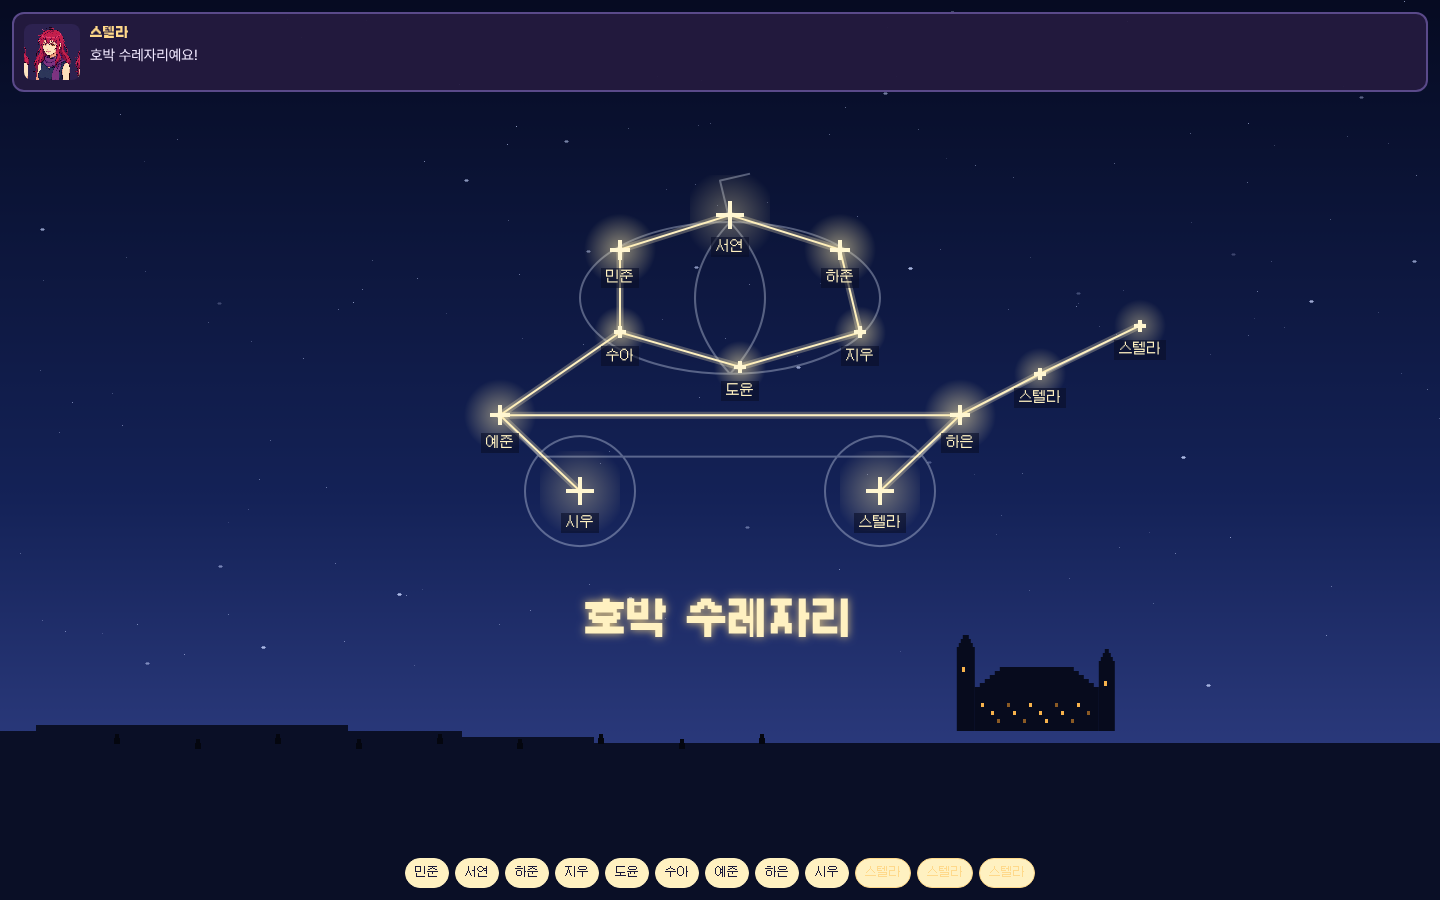
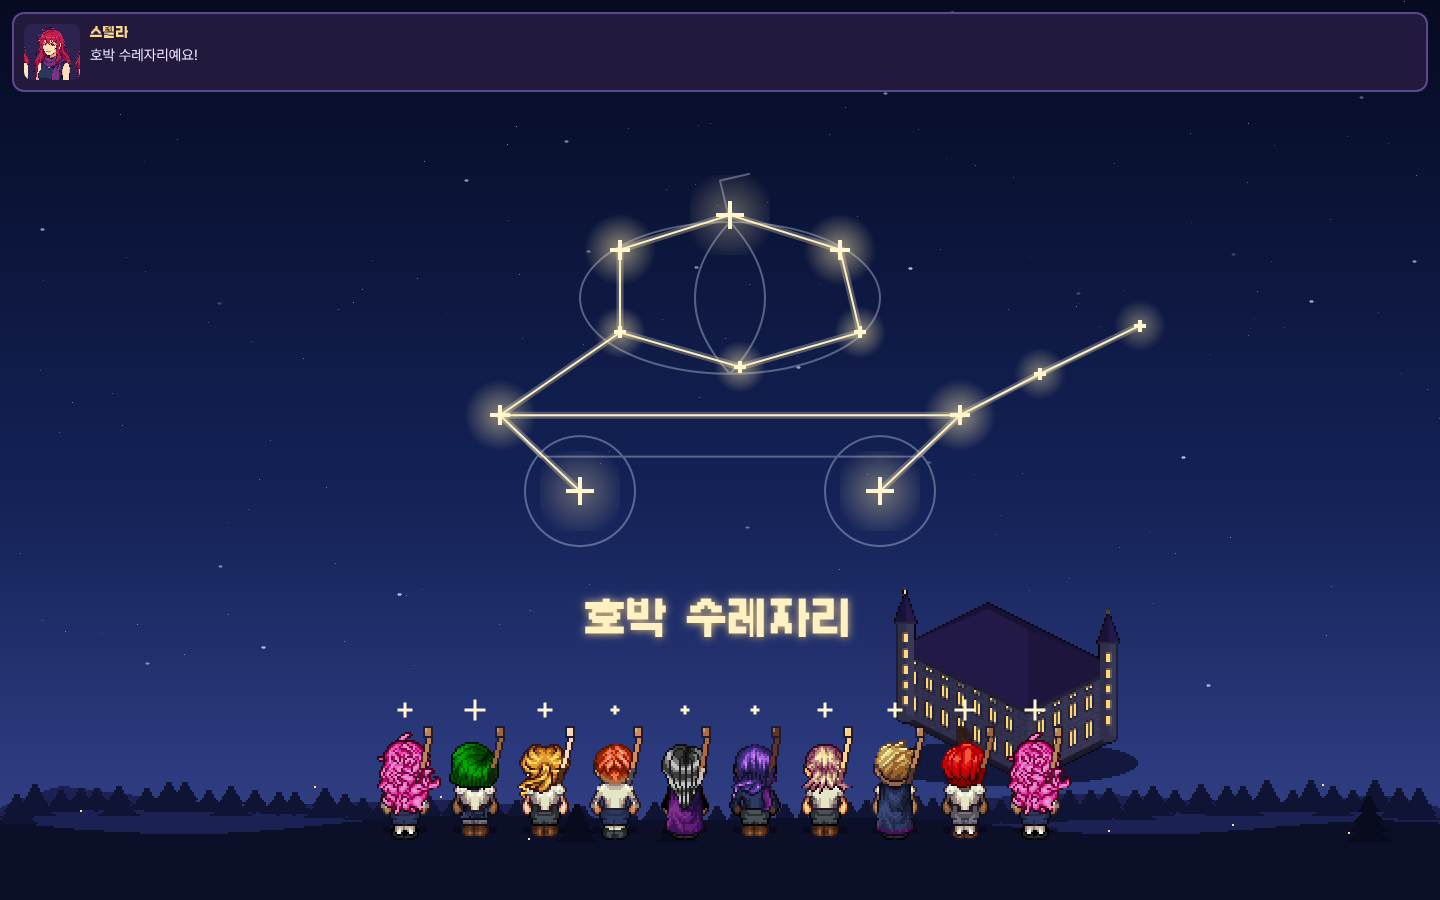
별 보는 밤 시안: 이름표 대신 학생 캐릭터가 열 맞춰 서서 하늘을 보고(자기 별을 켜면 손 흔들기), 아래 풍경을 게임 본관 그림 기반 도트로 교체
Claude-Session: https://claude.ai/code/session_01HhJ2NoNCjk5kaA3GWL7UDs

diff --git a/tools/stargaze/sky.js b/tools/stargaze/sky.js
@@ -11,19 +11,34 @@ const SKY = (() => {
     for (let i = 0; i < 150; i++){ const x = r() * W, y = r() * H * .78, a = .2 + r() * .5, big = r() < .12, tw = .5 + .5 * Math.sin(t * (1 + r() * 2) + i); g.globalAlpha = a * (.6 + .4 * tw); px(g, x, y, big ? U : 1, big ? U : 1, '#C9D6FF'); if (big){ px(g, x - 1, y + U / 2 - .5, U + 2, 1, '#C9D6FF'); } }
     g.globalAlpha = 1;
   }
-  function horizon(g, W, H){
-    const U = W < 700 ? 4 : 6, base = H - Math.round(H * .17);
-    g.fillStyle = '#0A0F26'; for (let x = 0; x < W; x += U){ const h = Math.round((Math.sin(x / W * 5.1 + 1) * .5 + Math.sin(x / W * 11) * .2) * 18 / U) * U; g.fillRect(x, base - h - 10, U, H - base + h + 10); }
-    // 학교 실루엣: 본관 + 탑 두 개 (계단식 지붕), 불 켜진 창
-    const cx = W * .72, by = base - 30; g.fillStyle = '#070B1D';
-    g.fillRect(cx - 62, by - 26, 124, 40);
-    for (let k = 0; k < 6; k++) g.fillRect(cx - 62 + k * 5, by - 26 - (k + 1) * 4, 124 - k * 10, 4);
-    g.fillRect(cx - 80, by - 66, 18, 80); for (let k = 0; k < 4; k++) g.fillRect(cx - 80 + k * 2, by - 66 - (k + 1) * 4, 18 - k * 4, 4);
-    g.fillRect(cx + 62, by - 52, 16, 66); for (let k = 0; k < 4; k++) g.fillRect(cx + 62 + k * 2, by - 52 - (k + 1) * 4, 16 - k * 4, 4);
-    const r = rnd(3); for (let i = 0; i < 14; i++) px(g, cx - 56 + i * 8 + (i % 2) * 2, by - 14 + (i % 3) * 8, 3, 4, r() < .7 ? '#F6B24C' : '#8A5A24');
-    px(g, cx - 75, by - 50, 3, 5, '#F6B24C'); px(g, cx + 67, by - 36, 3, 5, '#F6B24C');
-    // 언덕 위 작은 사람들 (참가자)
-    for (let i = 0; i < 9; i++){ const x = W * .08 + i * (W * .056), y = base - 6 + (i % 2) * 5; px(g, x, y - 7, 4, 4, '#04060F'); px(g, x - 1, y - 3, 6, 6, '#04060F'); }
+  // 아래 풍경: 도트 그림(art/stargaze_horizon_390·720.png, tools/stargaze/horizon.py)을 정수 배로 키워 찍어요
+  function horizon(g, W, H, img){
+    if (!img || !img.complete || !img.naturalWidth) return;
+    const sc = Math.max(1, Math.floor(W / img.naturalWidth)), dw = img.naturalWidth * sc, dh = img.naturalHeight * sc, x0 = Math.round((W - dw) / 2), y0 = H - dh;
+    g.imageSmoothingEnabled = false; g.fillStyle = '#0C0F28'; g.fillRect(0, H - 14 * sc, W, 14 * sc); g.fillStyle = '#131840'; g.fillRect(0, H - 30 * sc, x0, 16 * sc); g.fillRect(x0 + dw, H - 30 * sc, W - x0 - dw, 16 * sc);
+    g.drawImage(img, x0, y0, dw, dh);
+  }
+
+  // 언덕에 선 학생들: 플레이어가 만든 캐릭터를 열 맞춰 세워요 (하늘을 보느라 뒷모습). 자기 별을 켠 학생은 손을 들고 흔들어요
+  //   S.crowd = [{ img: 걷기 그림줄(64칸 × 20), lit: 자기 별을 켰는지, mag: 맡은 별 밝기 }]
+  function skinOf(g2, img){ const c = document.createElement('canvas'); c.width = c.height = 64; const q = c.getContext('2d'); q.drawImage(img, 0, 0, 64, 64, 0, 0, 64, 64); const d = q.getImageData(29, 27, 6, 3).data, px = []; for (let i = 0; i < d.length; i += 4) px.push([d[i], d[i + 1], d[i + 2]]); px.sort((a, b) => (a[0] + a[1] + a[2]) - (b[0] + b[1] + b[2])); return px[px.length >> 1]; }
+  function person(img, lit, t, k){
+    const c = document.createElement('canvas'); c.width = c.height = 64; const q = c.getContext('2d'); q.drawImage(img, 5 * 64, 0, 64, 64, 0, 0, 64, 64);
+    if (lit){ const sk = skinOf(null, img), slv = q.getImageData(36, 33, 1, 1).data, w = Math.round(Math.sin(t * 5 + k) * 1.2);
+      const sl = `rgb(${slv[0]},${slv[1]},${slv[2]})`, kn = `rgb(${sk[0]},${sk[1]},${sk[2]})`, hx = 43 + w;   // 어깨에서 위로 쭉 뻗은 팔 + 손 (흔들흔들)
+      const line = (x0, y0, x1, y1, col, th) => { const n = y0 - y1; for (let i = 0; i <= n; i++){ const x = Math.round(x0 + (x1 - x0) * i / n); q.fillStyle = col; q.fillRect(x, y0 - i, th, 1); } };
+      line(37, 33, hx - 1, 11, 'rgba(30,16,20,.7)', 4); line(38, 33, hx, 11, kn, 2); line(38, 33, 40, 26, sl, 2);
+      q.fillStyle = 'rgba(30,16,20,.7)'; q.fillRect(hx - 2, 5, 5, 6); q.fillStyle = kn; q.fillRect(hx - 1, 6, 3, 4); q.fillStyle = 'rgba(255,255,255,.3)'; q.fillRect(hx - 1, 6, 1, 2); }
+    return c;
+  }
+  function crowd(g, W, H, S, t){
+    const L = S.crowd || []; if (!L.length) return; const sc = W < 700 ? 1 : 2, gap = (W < 700 ? 34 : 70), n = L.length, x0 = W / 2 - (n - 1) / 2 * gap, base = H - (W < 700 ? 40 : 72), U = W < 700 ? 2 : 3;
+    g.imageSmoothingEnabled = false;
+    L.forEach((p, i) => { const x = Math.round(x0 + i * gap), cv = person(p.img, p.lit, t, i), y = base - 56 * sc;
+      g.fillStyle = 'rgba(0,0,0,.28)'; g.fillRect(x - 11 * sc, base - 1, 22 * sc, 3 * sc);
+      g.drawImage(cv, x - 32 * sc, y, 64 * sc, 64 * sc);
+      const sx = x, sy = y + 4 * sc - 14, col = p.lit ? '#FFF6D0' : '#6C7AA8';   // 머리 위에 맡은 별
+      g.globalAlpha = p.lit ? 1 : .6; g.fillStyle = col; g.fillRect(sx - U / 2, sy - U / 2, U, U); for (let k = 1; k <= (p.mag || 1); k++){ g.fillRect(sx - U / 2 + k * U, sy - U / 2, U, U); g.fillRect(sx - U / 2 - k * U, sy - U / 2, U, U); g.fillRect(sx - U / 2, sy - U / 2 + k * U, U, U); g.fillRect(sx - U / 2, sy - U / 2 - k * U, U, U); } g.globalAlpha = 1; });
   }
   // 별자리 그림 윤곽 (얇은 선화) — 별 좌표 기준으로 그려요
   const OUT = {
@@ -35,7 +50,7 @@ const SKY = (() => {
   };
   function draw(g, W, H, C, S){
     const t = S.t || 0, B = box(W, H), U = W < 700 ? 3 : 4, byId = Object.fromEntries(C.stars.map(s => [s.id, s]));
-    g.clearRect(0, 0, W, H); background(g, W, H, t); horizon(g, W, H);
+    g.clearRect(0, 0, W, H); background(g, W, H, t); horizon(g, W, H, S.horizon);
     if (S.outline > 0){ const P = (x, y) => [B.x + x / 100 * B.w, B.y + y / 60 * B.h]; P.w = v => v / 100 * B.w; P.h = v => v / 60 * B.h;
       g.save(); g.globalAlpha = .34 * S.outline; g.strokeStyle = '#E6EEFF'; g.lineWidth = 2; g.lineJoin = 'round'; g.setLineDash([]); OUT[C.id](g, P, C); g.stroke(); g.restore(); }
     // 선 (순서대로, 앞 별에서 뒤 별로 뻗어 나가요)
@@ -48,8 +63,8 @@ const SKY = (() => {
       else { g.globalAlpha = .55 + .35 * Math.sin(t * 3 + x); }
       px(g, x - U / 2, y - U / 2, U, U, col); for (let k = 1; k <= arm; k++){ px(g, x - U / 2 + k * U, y - U / 2, U, U, col); px(g, x - U / 2 - k * U, y - U / 2, U, U, col); px(g, x - U / 2, y - U / 2 + k * U, U, U, col); px(g, x - U / 2, y - U / 2 - k * U, U, U, col); }
       g.globalAlpha = 1;
-      if (S.names && S.own && S.own[s.id]){ g.font = (W < 700 ? '11' : '14') + 'px G11, Pretendard, sans-serif'; g.textAlign = 'center'; const tx = S.own[s.id], w = g.measureText(tx).width + 10, ty = y + (arm + 1) * U + 6, hot = S.hot && S.hot.includes(s.id);
-        g.fillStyle = hot ? 'rgba(255,241,193,.9)' : 'rgba(10,14,40,.62)'; g.fillRect(Math.round(x - w / 2), Math.round(ty), Math.round(w), W < 700 ? 16 : 20); g.fillStyle = hot ? '#1A1A3A' : L ? '#FFF1C1' : '#9FB0E0'; g.fillText(tx, x, ty + (W < 700 ? 12 : 15)); } });
+    });
+    crowd(g, W, H, S, t);
     if (head){ for (let i = 0; i < 6; i++){ const a = i * 1.1 + t * 6; g.fillStyle = 'rgba(255,241,193,.8)'; g.fillRect(Math.round(head[0] + Math.cos(a) * 7), Math.round(head[1] + Math.sin(a) * 7), 2, 2); } }
     if (S.title > 0){ g.save(); g.globalAlpha = S.title; g.textAlign = 'center'; g.font = `${W < 700 ? 28 : 42}px G11B, Pretendard, sans-serif`; g.shadowColor = 'rgba(255,220,130,.85)'; g.shadowBlur = 18; g.fillStyle = '#FFF1C1'; g.fillText(C.name, W / 2, B.y + B.h + (W < 700 ? 52 : 70)); g.restore(); }
   }

diff --git a/tools/stargaze/shot.js b/tools/stargaze/shot.js
@@ -3,9 +3,17 @@ const { chromium } = require('/opt/node-tools/node_modules/playwright'); const f
 const out = process.argv[2] || '.', url = 'file://' + path.resolve(__dirname, 'preview.html');
 const data = JSON.parse(fs.readFileSync(path.resolve(__dirname, '../../public/data/events/stargazing/constellations.json'), 'utf8'));
 const TXT = { pumpkin_cart: '호박 수레자리예요!', witch_broom: '마녀 빗자루자리예요!', sleepy_owl: '졸린 부엉이자리예요!', bell_cat: '방울 고양이자리예요!', twelve_friends: '열두 친구자리예요!' };
+// 학생 캐릭터는 게임 화면(모의 서버 GAME, 기본 http://localhost:8230/)에서 실제 아바타 그림을 받아와요
+const GAME = process.env.GAME || 'http://localhost:8230/';
+async function crowdUrls(b){
+  const pg = await b.newPage({ viewport: { width: 390, height: 740 } }), seed = { players: { u0: { nick: '민준', look: 2, house: 'dew', coin: 1, mana: 1, day: 1, inv: {}, cr: [], eggs: [], ex: { exp: 0, job: 'warrior', sp: {}, sk: {} } } }, story: { live: { ch: 1, at: 1 } } };
+  await pg.addInitScript(([s]) => { window.__seed = s; window.__uid = 'u0'; }, [seed]); await pg.goto(GAME); await pg.waitForTimeout(3000);
+  const urls = await pg.evaluate(async () => { const out = []; for (const lk of [3, 10, 17, 24, 31, 38, 45, 52, 59, 3]){ const av = World.Avatar.fix(World.Avatar.fromLook(lk)); await World.Avatar.need(av); out.push(World.Avatar.compose(av).toDataURL()); } return out; });
+  await pg.close(); return urls;
+}
 (async () => {
-  const b = await chromium.launch({ executablePath: '/opt/pw-browsers/chromium' });
-  async function shot(name, q, W = 390, H = 844){ const pg = await b.newPage({ viewport: { width: W, height: H } }); q = { ...q, W, H, data };
+  const b = await chromium.launch({ executablePath: '/opt/pw-browsers/chromium' }), CROWD = await crowdUrls(b);
+  async function shot(name, q, W = 390, H = 844){ const pg = await b.newPage({ viewport: { width: W, height: H } }); q = { ...q, W, H, data, crowd: CROWD.slice(0, (q.people ?? 9) + 1) };
     await pg.goto(url + '#' + encodeURIComponent(JSON.stringify(q))); await pg.waitForFunction(() => window.__ready); await pg.waitForTimeout(250); await pg.screenshot({ path: path.join(out, name + '.png') }); await pg.close(); }
   const C0 = 'pumpkin_cart';
   await shot('sky_a_light', { c: C0, lit: 7, people: 9, text: '자기 별을 눌러서 켜 주세요. 켜진 별은 제가 다 보고 있어요.', count: '켜진 별 7 / 12' });

diff --git a/tools/stargaze/preview.html b/tools/stargaze/preview.html
@@ -31,9 +31,10 @@ const cv = document.getElementById('cv'); cv.width = W * DPR; cv.height = H * DP
   const lit = C.stars.slice(0, Q.lit ?? 12).map(s => s.id);
   document.getElementById('tx').textContent = Q.text || '';
   document.getElementById('cnt').textContent = Q.count || '';
-  document.getElementById('names').innerHTML = C.stars.map(s => `<span class="${lit.includes(s.id) ? 'on' : ''} ${own[s.id] === '스텔라' ? 'st' : ''}">${own[s.id]}</span>`).join('');
-  document.getElementById('names').style.display = Q.noNames ? 'none' : '';
-  const S = { lit, own, drawn: Q.drawn || 0, outline: Q.outline || 0, title: Q.title || 0, t: Q.t || 1.3, names: Q.tags !== false, hot: Q.hot || [] };
+  document.getElementById('names').style.display = 'none';
+  const hz = new Image(); hz.src = '../../public/art/stargaze_horizon_' + (W < 700 ? 390 : 720) + '.png'; await new Promise(r => { hz.onload = r; hz.onerror = r; });
+  const crowd = await Promise.all((Q.crowd || []).map((u, i) => new Promise(r => { const im = new Image(); im.onload = () => r({ img: im, lit: lit.includes(C.stars[i]?.id), mag: C.stars[i]?.mag }); im.src = u; })));
+  const S = { crowd, horizon: hz, lit, own, drawn: Q.drawn || 0, outline: Q.outline || 0, title: Q.title || 0, t: Q.t || 1.3, names: false, hot: Q.hot || [] };
   SKY.draw(g, W, H, C, S); window.__ready = 1;
 })();
 </script>

diff --git a/tools/stargaze/horizon.py b/tools/stargaze/horizon.py
@@ -1,0 +1,47 @@
+#!/usr/bin/env python3
+"""별 보는 밤 하늘 화면 아래쪽 풍경(언덕·소나무·학교·언덕 위 학생들) 도트 그림 → public/art/stargaze_horizon_{390,720}.png
+   학교는 게임 지도의 본관 그림(art/iso/hw_obj.png)을 그대로 가져와 밤빛으로 어둡게 해요. 다시 만들기: python3 tools/stargaze/horizon.py"""
+import math, random, os
+from PIL import Image, ImageDraw
+ROOT = os.path.join(os.path.dirname(__file__), '..', '..')
+OBJ = Image.open(os.path.join(ROOT, 'public/art/iso/hw_obj.png')).convert('RGBA')
+SCHOOL = OBJ.crop((0, 0, 226, 197))
+FAR, MID, NEAR, TREE, EDGE = (27, 33, 82), (19, 24, 62), (12, 15, 40), (8, 11, 30), (22, 28, 70)
+def school(scale):
+    s = SCHOOL.resize((int(226 * scale), int(197 * scale)), Image.BOX); px = s.load()
+    for y in range(s.height):
+        for x in range(s.width):
+            r, g, b, a = px[x, y]
+            if a < 128: px[x, y] = (0, 0, 0, 0); continue
+            if r > 200 and g > 170 and b < 190: px[x, y] = (255, 214, 120, 255); continue     # 불 켜진 창은 그대로 밝게
+            px[x, y] = (int(r * .62), int(g * .64), int(b * .8), 255)
+    return s
+def pine(d, x, base, h, col):
+    for k in range(4):
+        w = 2 + k * 2 + h // 6; y0 = base - h + k * (h // 4)
+        for yy in range(y0, y0 + h // 3 + 2):
+            ww = max(1, w * (yy - y0 + 2) // (h // 3 + 3)); d.line([(x - ww, yy), (x + ww, yy)], fill=col)
+    d.rectangle([x - 1, base - 3, x, base], fill=col)
+def gen(w, h, seed=5):
+    random.seed(seed); im = Image.new('RGBA', (w, h), (0, 0, 0, 0)); d = ImageDraw.Draw(im)
+    def hill(amp, base, col, ph, f):   # 가장자리는 같은 높이로 끝나게 해서 넓은 화면에서도 이어 붙여 칠할 수 있어요
+        for x in range(w):
+            e = min(1, x / 30, (w - 1 - x) / 30)
+            y = int(base - e * (amp * (math.sin(x / w * f + ph) * .6 + math.sin(x / w * f * 2.3 + ph * 2) * .4)) - (1 - e) * 0)
+            d.line([(x, y), (x, h)], fill=col)
+    hill(14, h - 46, FAR, 1.0, 7.5); hill(10, h - 30, MID, 2.4, 9.5)
+    # 먼 소나무 줄
+    for x in range(6, w, 11):
+        base = h - 44 + int(math.sin(x / w * 7.5 + 1) * -6 * min(1, x / 30, (w - x) / 30)) + 4; pine(d, x + random.randint(-2, 2), base, random.randint(10, 15), (16, 20, 52))
+    # 학교 (오른쪽 언덕 위)
+    sc = school(.5); sx, sy = int(w * .70) - sc.width // 2, h - 72 - sc.height + 14
+    d.ellipse([sx - 8, h - 80, sx + sc.width + 8, h - 58], fill=MID); im.alpha_composite(sc, (sx, sy)); d = ImageDraw.Draw(im)
+    hill(6, h - 38, NEAR, 4.1, 8.5)
+    # 앞쪽 소나무 몇 그루
+    for x in (int(w * .40), int(w * .47), int(w * .95)): pine(d, x, h - 32, random.randint(16, 22), TREE)
+    # 반딧불
+    for _ in range(9):
+        x, y = random.randint(8, w - 8), random.randint(h - 60, h - 14); d.point([(x, y)], fill=(255, 226, 140))
+    return im
+for w, h in ((390, 190), (720, 190)):
+    gen(w, h).save(os.path.join(ROOT, f'public/art/stargaze_horizon_{w}.png')); print('저장', w, h)
